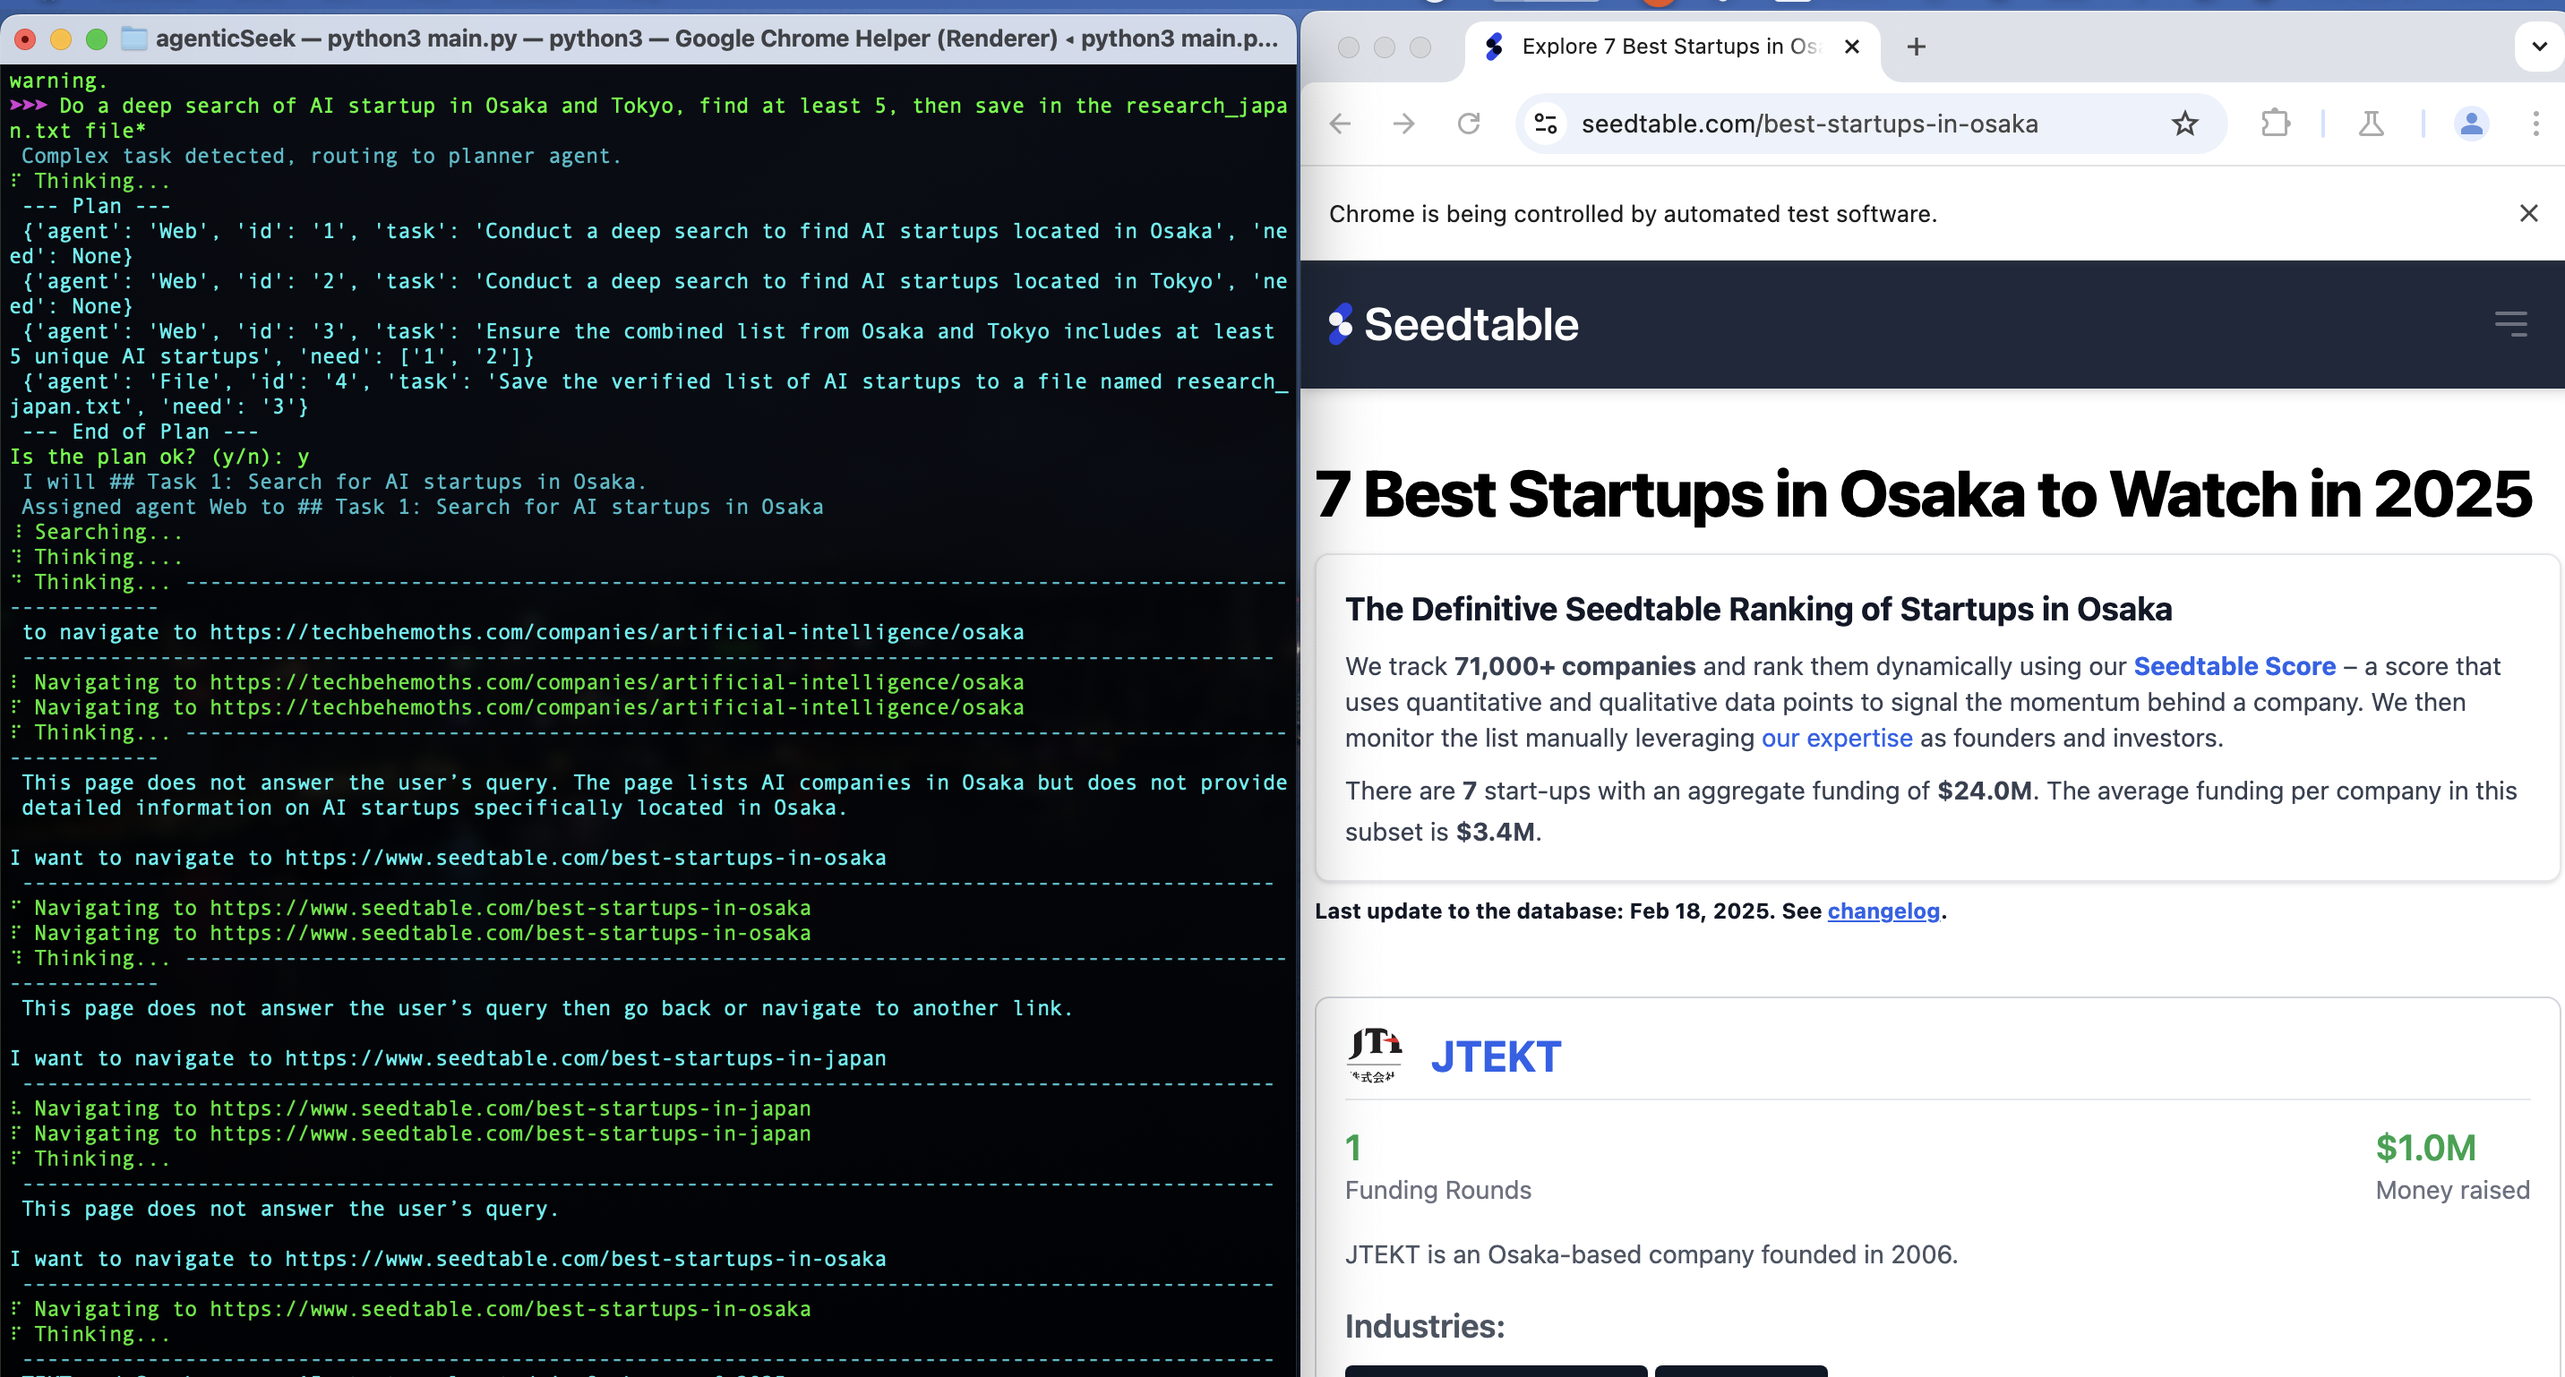
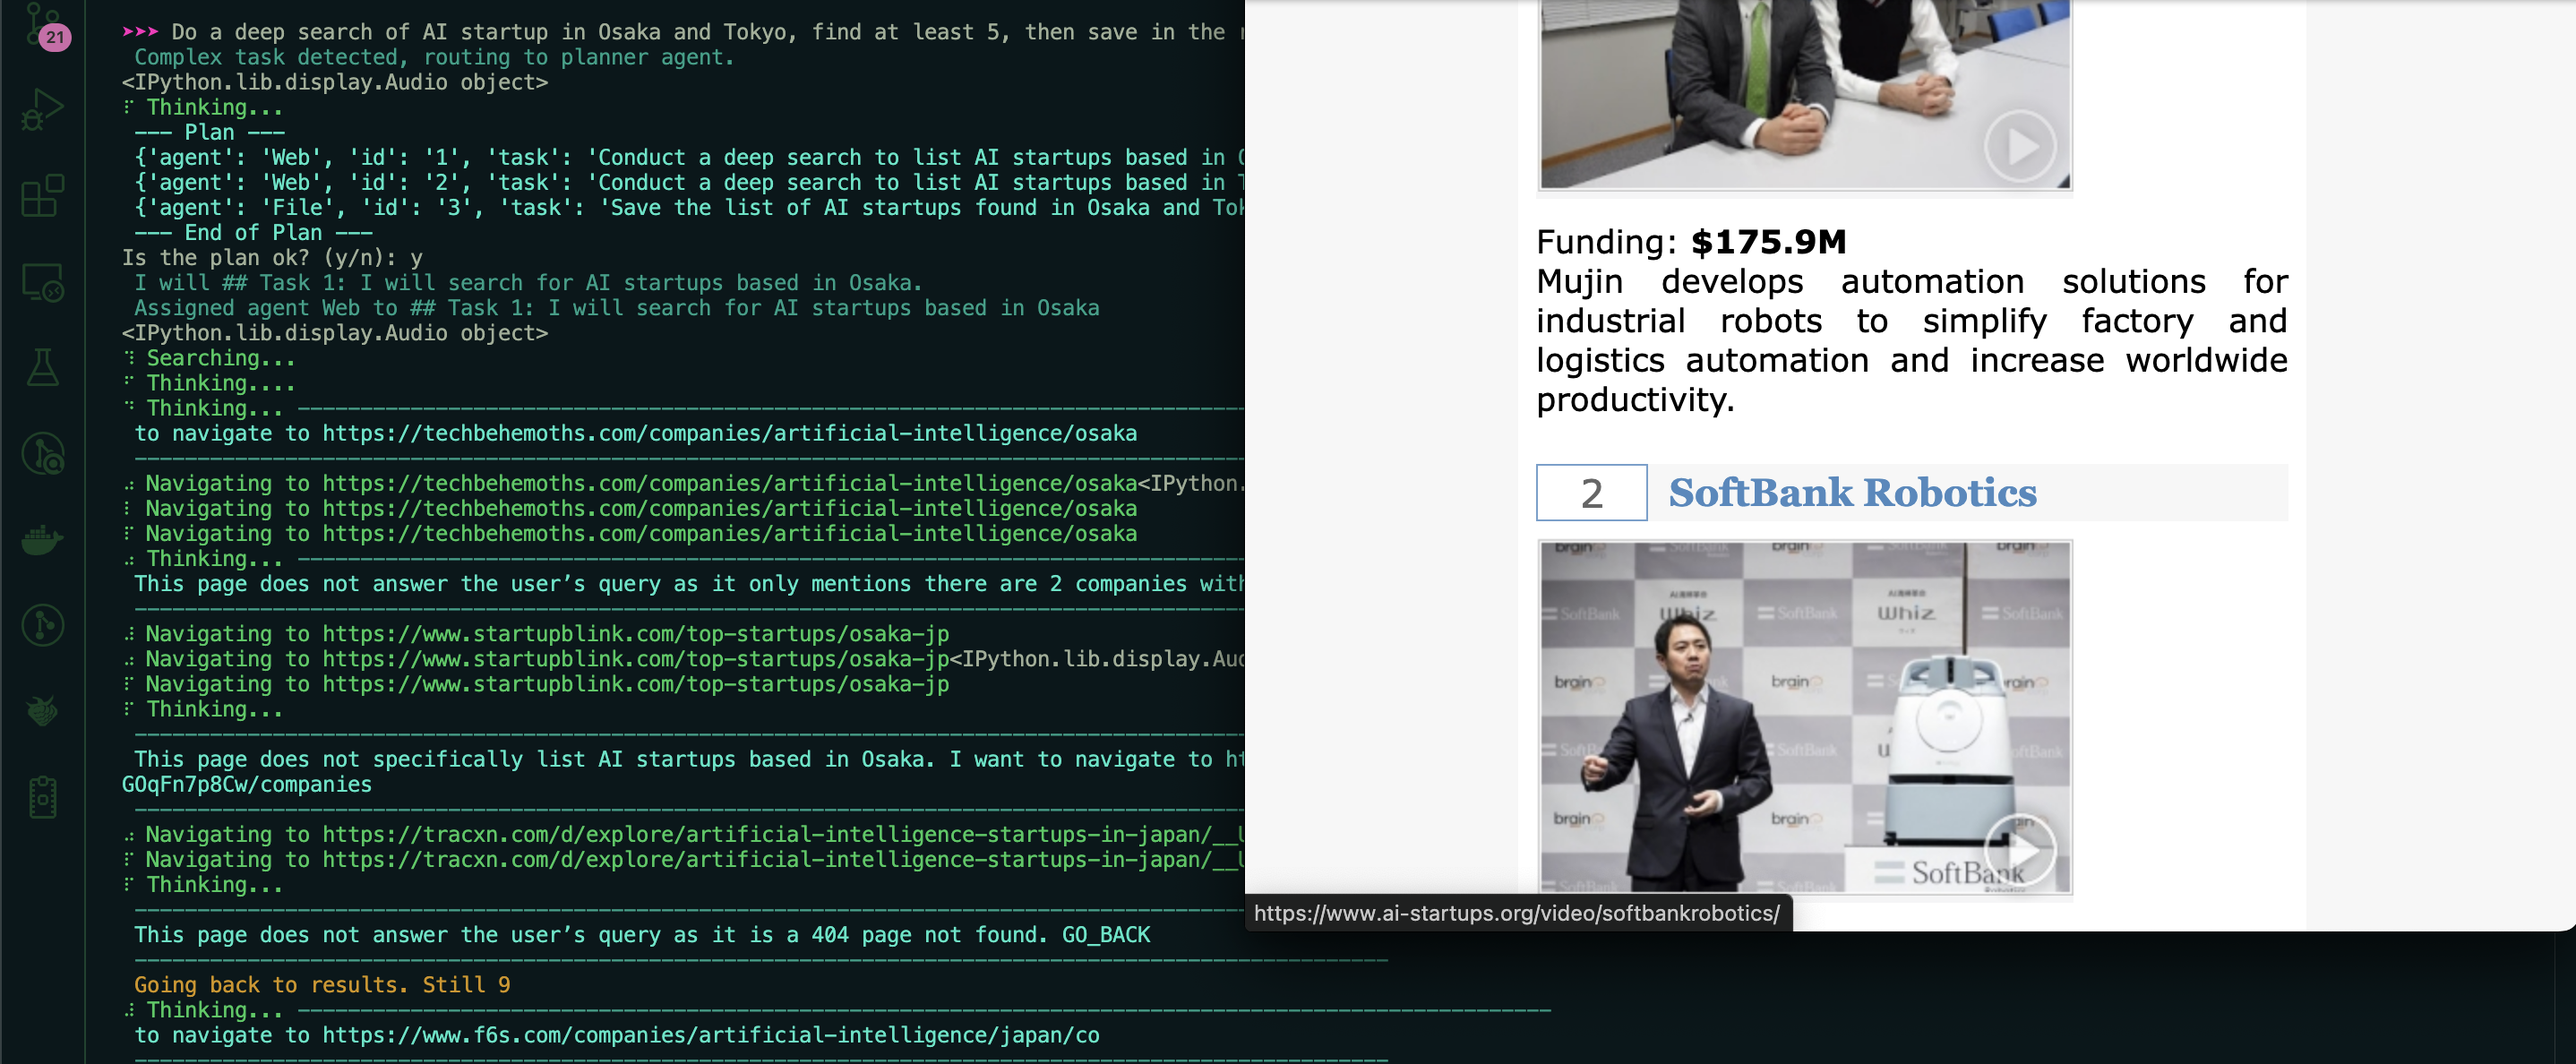
update readme

diff --git a/README.md b/README.md
@@ -307,7 +307,7 @@ The table below show the available providers:
 | Provider  | Local? | Description                                               |
 |-----------|--------|-----------------------------------------------------------|
 | ollama    | Yes    | Run LLMs locally with ease using ollama as a LLM provider |
-| Server    | Yes    | Host the model on another machine, run your local machine |
+| server    | Yes    | Host the model on another machine, run your local machine |
 | lm-studio  | Yes    | Run LLM locally with LM studio (set `provider_name` to `lm-studio`)|
 | openai    | No     | Use ChatGPT API (non-private)                             |
 | deepseek-api  | No     | Deepseek API (non-private)                                |
